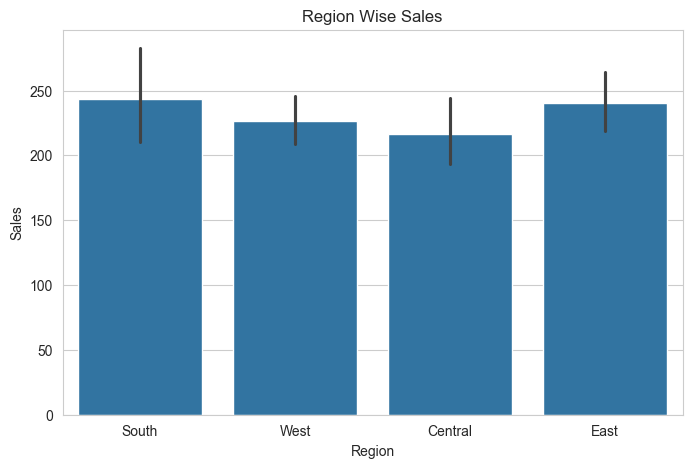
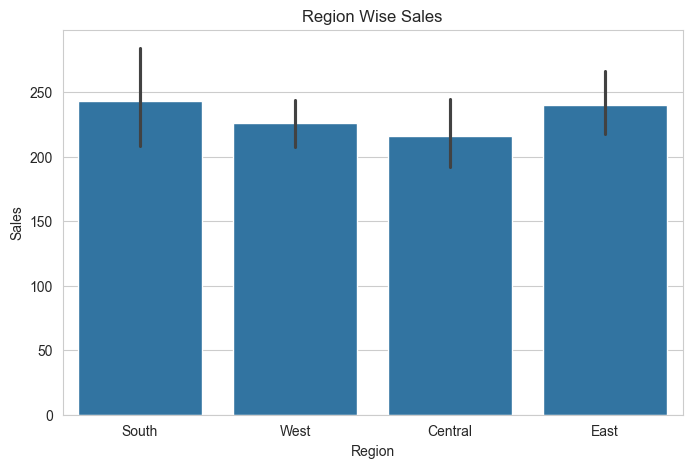
Add complete supermarket sales EDA project

diff --git a/README.md b/README.md
@@ -1,5 +1,7 @@
 # Superstore Sales EDA
 
+![Sales Distribution](images/sales_distribution.png)
+
 ## Project Overview
 This project performs Exploratory Data Analysis (EDA) on the Superstore Sales dataset to identify meaningful business insights, customer purchasing patterns, product performance, and regional sales trends using Python data analysis and visualization libraries.
 
